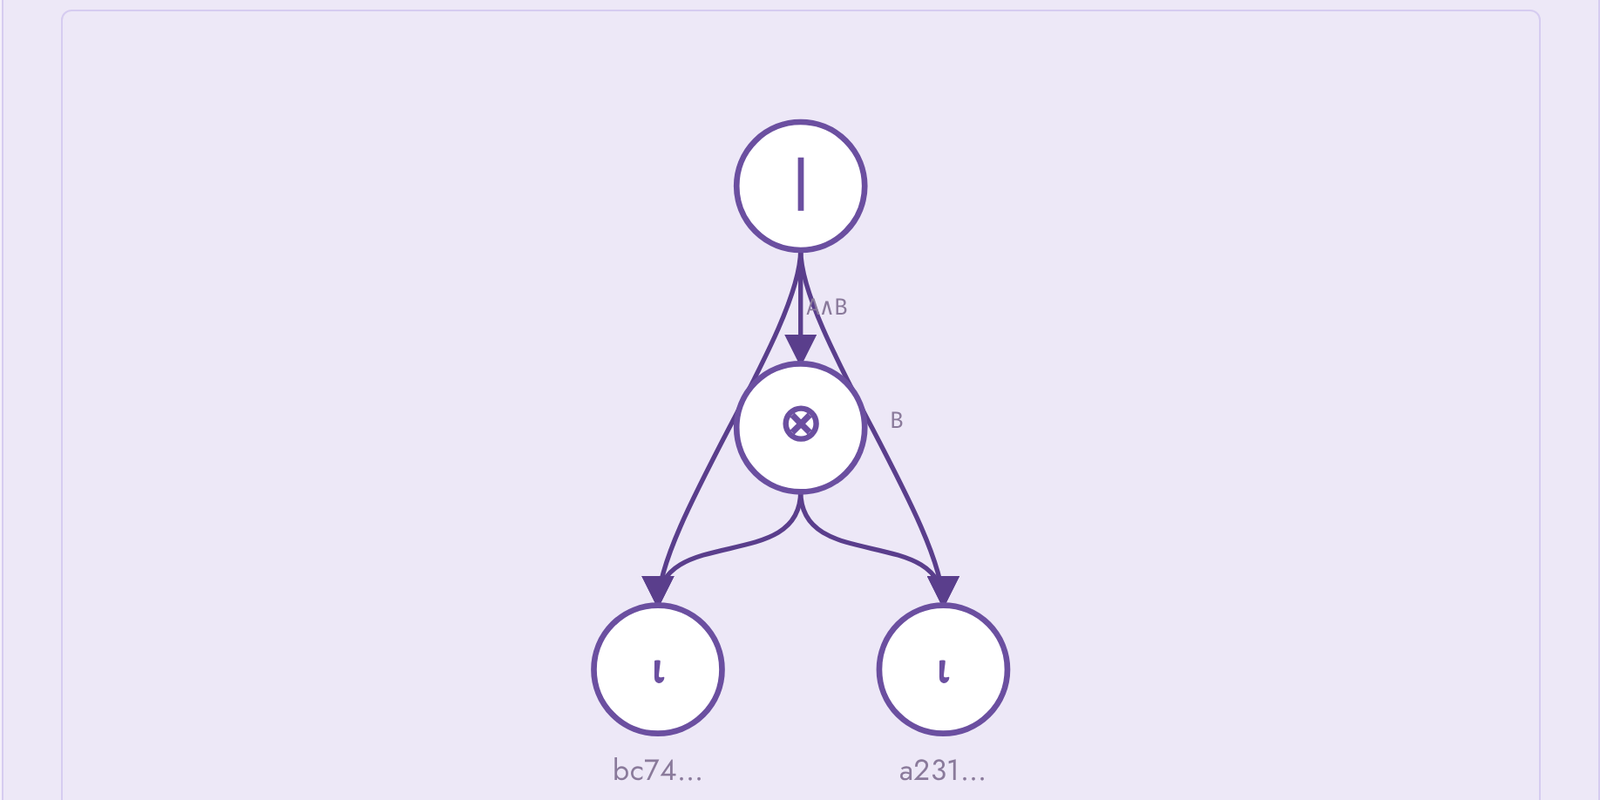
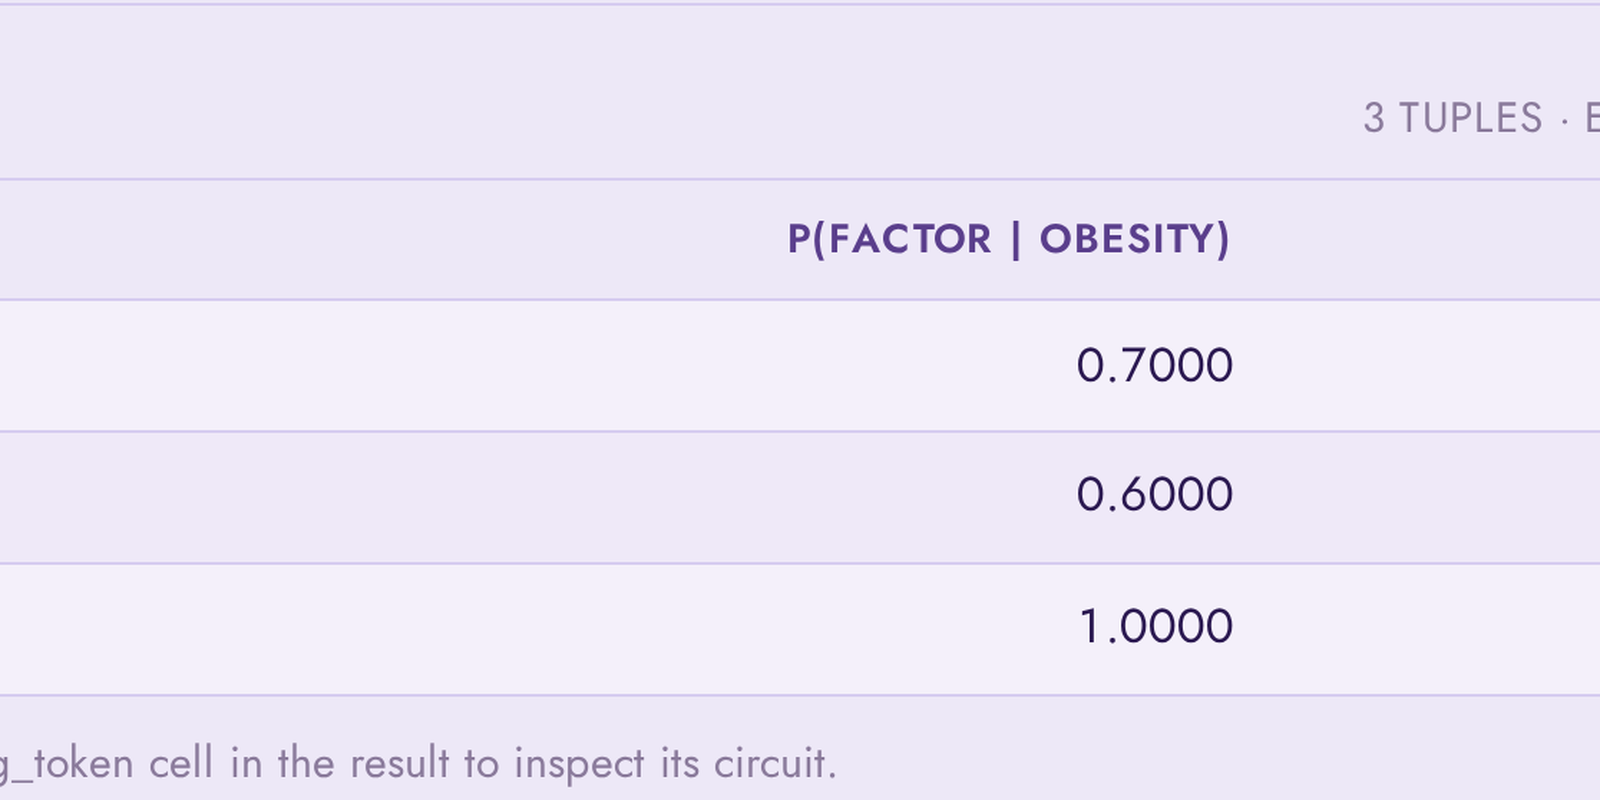
Website: replace Semiring card with a real three-semiring result, switch Conditioning to a clear P(factor | obesity) result (the gate-circuit labels overlapped), and clean the reachability caption (no bold, matching font, tighter spacing)

diff --git a/website/index.html b/website/index.html
@@ -37,7 +37,7 @@ feature_row:
     btn_class: "btn--primary"
   - title: "Semiring Provenance"
     image_path: /assets/images/evaluate-provenance.png
-    alt: "Diagram of semiring instantiation: a semiring K is compiled into a C++ class and combined with a provenance mapping to evaluate circuits and produce a result table with explanations in K."
+    alt: "ProvSQL Studio query result: one provenance evaluated under three semirings side by side – the symbolic formula polynomial (Ellen ⊗ Jing), the min-clearance security semiring, and the counting (witnesses) semiring."
     excerpt: >
       A unified semiring API for Boolean, counting, why-, how-, and
       which-provenance, symbolic formulas, tropical, Viterbi,
@@ -113,7 +113,7 @@ feature_row:
     btn_class: "btn--primary"
   - title: "Conditioning"
     image_path: /assets/images/conditioning.png
-    alt: "ProvSQL Studio circuit: a conditioned gate (the | operator) over a times-gate joint and two input gates, the edges labelled with the conditioning event."
+    alt: "ProvSQL Studio query result: the conditional probability P(factor | obesity) for three risk factors – obesity given itself is 1.0 while independent factors keep their prior – computed with the | operator."
     excerpt: >
       Ask *conditional* questions with one operator: `A | B` ("`A` given
       `B`") gives `P(A | B)`, conditional expectations and variances, and